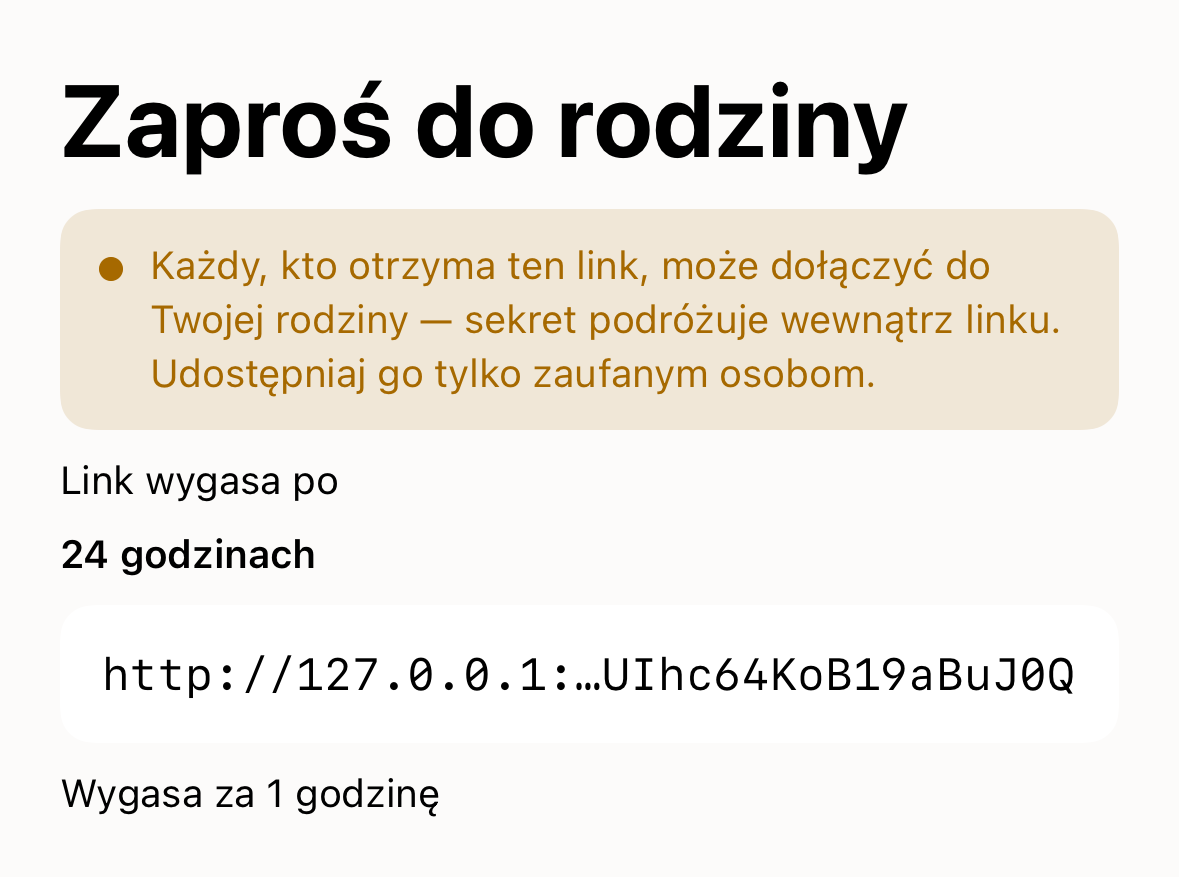
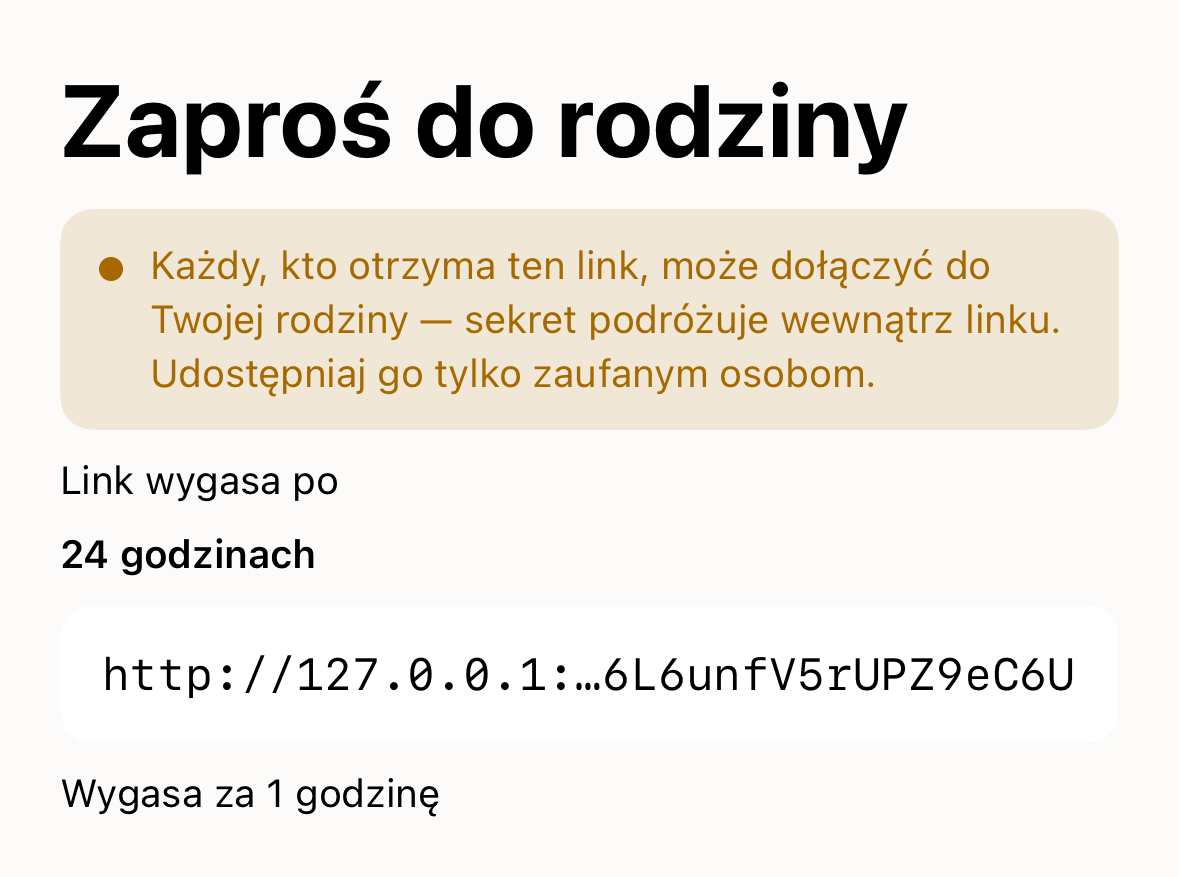
fix(40-06): lowercase + fully-unique E-F2 run suffix (Rule 1/3)
Found live, this task: (1) UUID().uuidString is uppercase hex, and pv-server
normalizes stored emails to lowercase -- an un-lowercased run suffix made
every later exact-string email comparison against a roster row silently
fail even though the member was genuinely present. (2) A bare
second-granularity timestamp (this file's own prior commit, matching
ShareMarkerTests.swift's existing precedent) collided across two
near-simultaneous invocations of this suite observed live, colliding into
the v0.4 singleton-family server's "family already exists" 409 on the
second createFamily call. Appending a lowercased 8-character UUID fragment
fixes both. Re-ran the live method against a fresh isolated server -- green,
fresh evidence captured.

Changed region(s): [[0.4885, 0.7389, 0.916, 0.8005]]

diff --git a/ios/PasskeyVault/PasskeyVaultTests/InviteTests.swift b/ios/PasskeyVault/PasskeyVaultTests/InviteTests.swift
@@ -747,7 +747,19 @@ extension InviteTests {
     @MainActor
     @Test func liveInviteRedeemedByWebAccount() async throws {
         let baseURL = Self.liveServerBaseURL
-        let runSuffix = String(Int(Date().timeIntervalSince1970))
+        // A second-granularity timestamp alone (`ShareMarkerTests.swift`'s
+        // own `liveTwoAccountMarkerRun` precedent) collided across two
+        // near-simultaneous invocations observed live in this task (a bare
+        // `xcodebuild test` scoped to the whole suite re-ran this method
+        // twice within the same wall-clock second) -- an 8-character UUID
+        // fragment makes that collision astronomically unlikely regardless
+        // of how many times this method runs within one second.
+        // Lowercased: `pv-server` normalizes stored emails to lowercase
+        // (discovered live, this task -- `UUID().uuidString` is uppercase
+        // hex, and an un-lowercased suffix here made every later exact-
+        // string `== emailB` comparison against a roster row's OWN,
+        // server-normalized email silently fail).
+        let runSuffix = "\(Int(Date().timeIntervalSince1970))-\(UUID().uuidString.prefix(8))".lowercased()
         let emailA = "pv-ef2-a-\(runSuffix)@example.invalid"
         let password = "PvEF2-40-06-EvidencePassword!"
 
